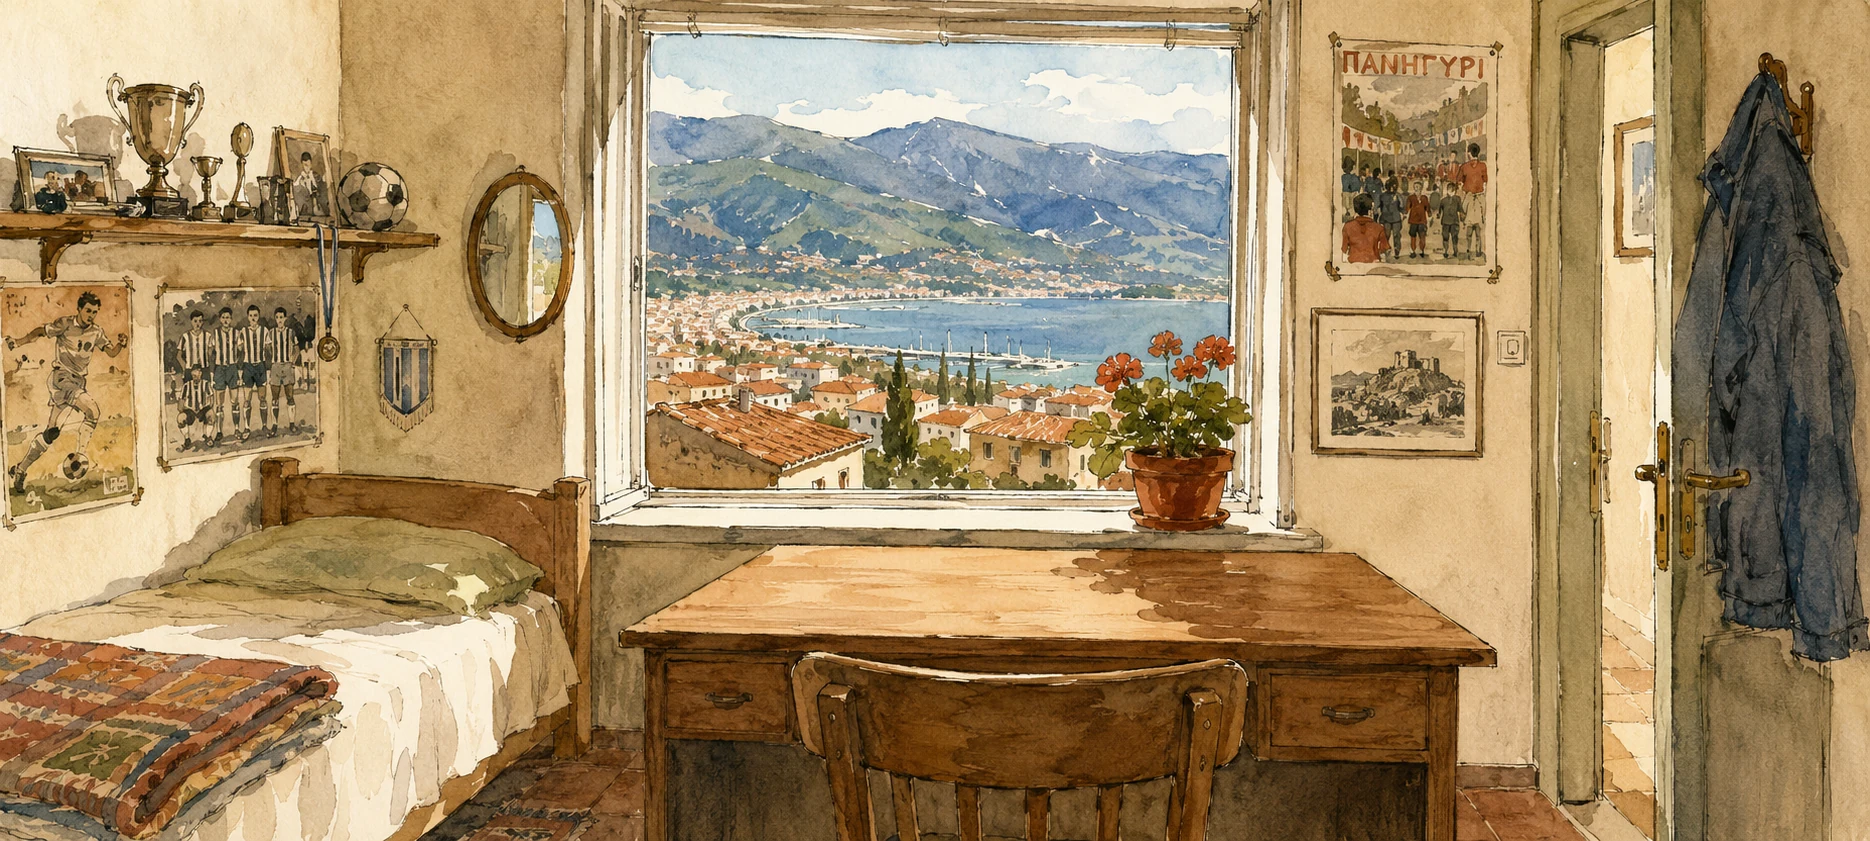
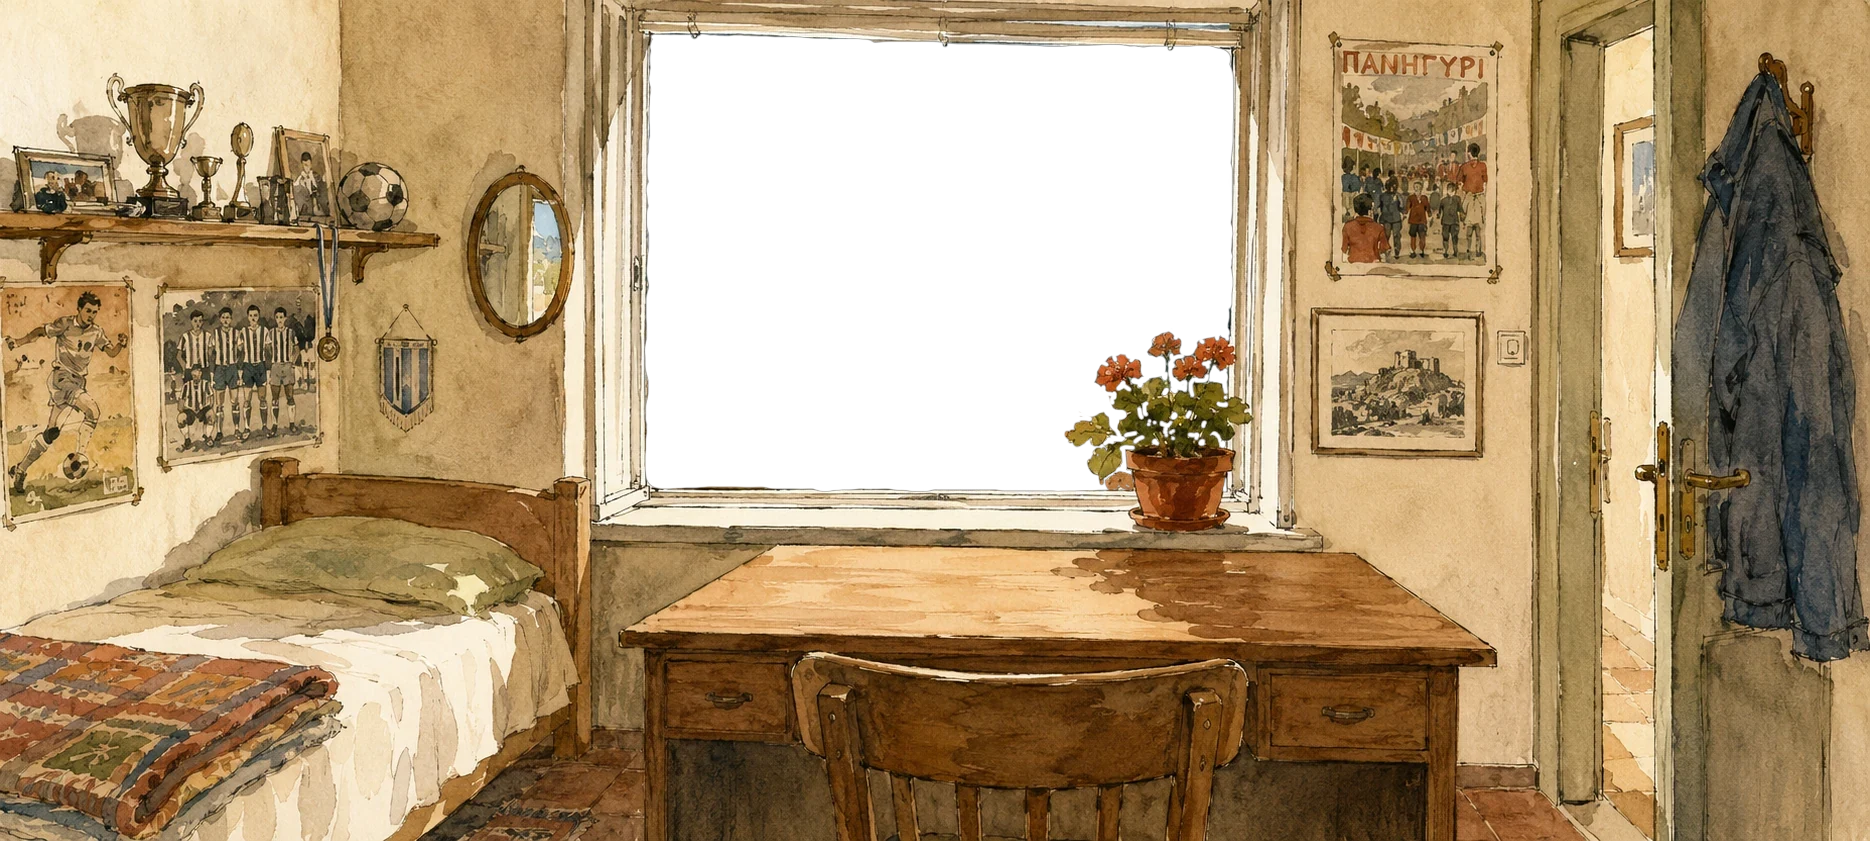
feat: Hilux-in-window live + window-behind-base compositing (DESK-HUB gap #3 done)
The bedroom base was re-exported with a transparent window cut-out, so the
harbour view now sits BEHIND the base (framed by the window opening) for every
season, and the Hilux composites into it the moment the truck is owned.

- HILUX_WINDOW_READY = true; window/hilux overlays render at z0 behind the base
  (z1), so the base's opaque frame crops them cleanly; tuned to fill the opening
  (top:30% width:50%).
- The seasonal harbour now shows for summer too (the base no longer paints it in).

Re-exported assets: bedroom-p1-base.webp (transparent window), and
bedroom-p1-window-hilux.webp (transparent). Harness 0 exceptions.

Completes all five DESK-HUB doctrine gaps.

Changed region(s): [[0.3412, 0.0309, 0.6824, 0.5874]]

diff --git a/index.html b/index.html
@@ -817,7 +817,7 @@
   .hub-stage{ position:relative; aspect-ratio:1870/841;
     width:min(100%, calc(100dvh * 1870 / 841)); max-height:100dvh; }
   .hub-base{ position:absolute; inset:0; width:100%; height:100%;
-    object-fit:fill; z-index:0; }
+    object-fit:fill; z-index:1; }
   /* a tappable object: positioned by its CENTRE (left/top), sized by width% */
   .hub-obj, .hub-region{ position:absolute; transform:translate(-50%,-50%);
     background:none; border:none; padding:0; margin:0; cursor:pointer;
@@ -832,7 +832,7 @@
     filter:drop-shadow(0 0 13px rgba(232,168,81,.85)); outline:none; }
   .hub-obj:active{ transform:translate(-50%,-50%) scale(.96); }
   /* seasonal harbour view dropped into the window opening (non-interactive) */
-  .hub-window{ position:absolute; transform:translate(-50%,-50%); z-index:1; pointer-events:none; }
+  .hub-window{ position:absolute; transform:translate(-50%,-50%); z-index:0; pointer-events:none; }
   .hub-window img{ display:block; width:100%; height:auto; }
   /* invisible regions over painted-in furniture (window/bed/door/board) */
   .hub-region{ border-radius:16px; animation:hubRegion 2.8s ease-in-out infinite;
@@ -2476,14 +2476,14 @@ function renderBedroomHub(){
   const help = `<button class="hub-help" aria-label="What can I tap?" onclick="toggleHubCue()">?</button>`;
   const base = `<img class="hub-base" src="${ASSETS['bedroom-p1-base']}" alt="Your childhood bedroom in Kalamata, the harbour in the window">`;
   const ws = hubWindowSeason();
-  const win = (ws!=='summer' && ASSETS['bedroom-p1-window-'+ws])
-    ? `<img class="hub-window" src="${ASSETS['bedroom-p1-window-'+ws]}" alt="" style="left:49%;top:33%;width:40%">` : '';
+  const win = (ASSETS['bedroom-p1-window-'+ws])
+    ? `<img class="hub-window" src="${ASSETS['bedroom-p1-window-'+ws]}" alt="" style="left:49%;top:30%;width:50%">` : '';
   // The Hilux, once bought, is parked in the harbour-side view — composites over any season.
   // GATED: bedroom-p1-window-hilux.webp currently ships OPAQUE (white bg, like the old
   // notebook). Flip HILUX_WINDOW_READY = true once a transparent re-export lands.
-  const HILUX_WINDOW_READY = false;
+  const HILUX_WINDOW_READY = true;
   const hilux = (HILUX_WINDOW_READY && typeof hasInfra==='function' && hasInfra('pickup') && ASSETS['bedroom-p1-window-hilux'])
-    ? `<img class="hub-window" src="${ASSETS['bedroom-p1-window-hilux']}" alt="" style="left:49%;top:33%;width:40%">` : '';
+    ? `<img class="hub-window" src="${ASSETS['bedroom-p1-window-hilux']}" alt="" style="left:49%;top:30%;width:50%">` : '';
   const overlay = document.createElement('div');
   overlay.id='hubOverlay'; overlay.className='hub';
   overlay.innerHTML = `<div class="hub-stage">${base}${win}${hilux}${spots}${tag}${status}${hint}${mum}</div>${help}`;